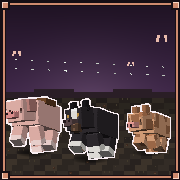
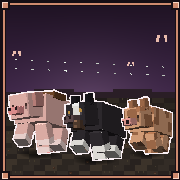
v1.0.2: loggan tillbaka till den första uppställningen, och en spärr mot ramen
Pelle valde den första loggan — tre stora grisar som står tätt. Den
gick dock in i ramen: Blossoms vänsterkant låg på x=6 med ramen på
0-15, och grisen såg avklippt ut.

make_logo.py räknar nu efter i stället för att jag ska titta. Varje
gris bredd härleds ur samma tabell som blit() använder, och går någon
in i ramen stannar bygget med siffran utskriven. Spärren är provad mot
den gamla placeringen och faller på den.

Blossom är den BREDASTE spriten (178 px mot Soots 176 och Nillas 140)
trots att hon inte är den högsta — en x-andel som fungerar för de andra
räcker inte för henne. Soot och Nilla flyttades med åt höger så att
överlappen blev som i originalet.

1.0.1 hoppades över: en avbruten körning hann höja manifestet men
ingenting skickades under det numret.

Changed region(s): [[0.0278, 0.5, 0.9722, 0.9167]]

diff --git a/tools/make_logo.py b/tools/make_logo.py
@@ -42,14 +42,20 @@ NYCKEL = (255, 0, 255, 255)
 # HÖJDERNA ÄR RÄKNADE MOT RAMEN: fotlinjen ligger på 0,86 och ramen på 0,97, så
 # klövarna hamnar innanför. En logga med avklippta fötter ser trasig ut.
 # GRISAR ÄR BREDARE ÄN HUNDAR vid samma höjd, så siffrorna är lägre än
-# hundloggans. Först provades 178-190 px: klövarna hamnade innanför ramen, men
-# grisarna gick in i VARANDRA — Blossoms bakdel låg över Soots huvud, och tre
-# figurer som överlappar läses som en klump, precis det tre stora djur ska
-# undvika. Bredden, inte höjden, är gränsen för en gris.
+# hundloggans 218-232 px.
+#
+# DE TRE FÅR RÖRA VID VARANDRA, och det är avsiktligt. En omgång med mindre och
+# glesare grisar (156/168/136 px) provades för att ingen skulle överlappa — den
+# blev luftigare men svagare, och Pelle valde den här. Tre stora djur som står
+# tätt läser som en flock; tre små med luft emellan läser som ett provkarta.
+# Ändra inte ner dem igen utan att fråga.
+# Blossom flyttades in från 0,195 (då gick hon in i ramen), och Soot och Nilla
+# följde med åt höger så att ÖVERLAPPEN blev som i originalet — flyttas bara
+# Blossom hamnar hon ovanpå Soots huvud i stället.
 UPPSTALLNING = [
-    ("blossom", 0.180, 0.845, 156, ("sadel",)),
-    ("soot", 0.500, 0.880, 168, ("tryffel",)),
-    ("nilla", 0.822, 0.845, 136, ()),
+    ("blossom", 0.218, 0.850, 178, ("sadel",)),
+    ("soot", 0.525, 0.885, 190, ("tryffel",)),
+    ("nilla", 0.815, 0.850, 158, ()),
 ]
 
 
@@ -116,6 +122,30 @@ def blit(dst, src, cx, cy, out_h):
                 dst[py][px] = p
 
 
+# RAMEN ÄR EN GRÄNS, inte en dekoration. Blossoms vänsterkant hamnade tio pixlar
+# INNE i ramen och grisen såg avklippt ut — och det syntes inte förrän Pelle
+# tittade på den färdiga bilden. Blossom är den BREDASTE spriten (178 px mot
+# Soots 176 och Nillas 140) trots att hon inte är den högsta, så en x-andel som
+# fungerar för de andra räcker inte för henne. Bredden räknas fram ur samma
+# tabell som blit() använder, så måttet kan inte glida isär från bilden.
+RAM_INRE = 16                              # ramen upptar 0..15
+KONTUR = 4                                 # den vita konturen ritas 4 px utanför
+
+
+def kontrollera(rasid, sx, sy, out_w, hojd):
+    v, h = sx - out_w // 2 - KONTUR, sx - out_w // 2 + out_w + KONTUR
+    o, u = sy - hojd - KONTUR, sy + KONTUR
+    fel = []
+    if v < RAM_INRE: fel.append(f"vänsterkant {v} < {RAM_INRE}")
+    if h > P - RAM_INRE: fel.append(f"högerkant {h} > {P - RAM_INRE}")
+    if o < RAM_INRE: fel.append(f"överkant {o} < {RAM_INRE}")
+    if u > P - RAM_INRE: fel.append(f"underkant {u} > {P - RAM_INRE}")
+    if fel:
+        raise SystemExit(f"❌ {rasid} går in i ramen: {', '.join(fel)}\n"
+                         f"   (bredd {out_w} px vid höjd {hojd}) — justera "
+                         f"x-andelen eller höjden i UPPSTALLNING")
+
+
 for rasid, fx, fy, hojd, visa in UPPSTALLNING:
     geoid, tex = next((g, t) for r, g, t in rp.rasklient() if r == rasid)
     src = rp.rita(geoid, tex, 300, 300, yaw=26, pitch=10, visa=visa, bakgrund=NYCKEL)
@@ -127,6 +157,7 @@ for rasid, fx, fy, hojd, visa in UPPSTALLNING:
     kol = [x for x in range(300) if any(nyckl[y][x] != TOM for y in rader)]
     nyckl = [rad[kol[0]:kol[-1] + 1] for rad in nyckl[rader[0]:rader[-1] + 1]]
     sx, sy = int(P * fx), int(P * fy)
+    kontrollera(rasid, sx, sy, int(len(nyckl[0]) / (len(nyckl) / hojd)), hojd)
     # ELLIPS UNDER GRISEN: en mjuk skugga grundar djuret och skiljer det från
     # marken bättre än en rak stapel.
     for y in range(sy - hojd // 12, sy + hojd // 12):

diff --git a/CHANGELOG.md b/CHANGELOG.md
@@ -1,5 +1,45 @@
 # Ändringar
 
+## 1.0.2 — 2026-08-23
+
+*(1.0.1 finns inte. En avbruten körning hann höja manifestet innan den stoppades,
+och leveransloggboken visar att ingenting någonsin skickades under det numret.
+Att återanvända det hade varit värre: två olika innehåll under samma version är
+precis vad loggboken finns för att hindra.)*
+
+
+Loggan tillbaka till den första uppställningen: tre stora grisar som står tätt,
+i stället för den glesare omgången med mindre djur. Pelle valde den första.
+
+**Och den första gick in i ramen.** Blossoms vänsterkant låg på x=6 med ramen på
+0–15, alltså tio pixlar in, och grisen såg avklippt ut. Det syntes inte förrän
+någon tittade på den färdiga bilden — så `make_logo.py` har nu en spärr som
+RÄKNAR: varje gris bredd härleds ur samma tabell som blit() använder, och går
+någon in i ramen stannar bygget med siffran utskriven. Spärren är provad mot
+den gamla placeringen och faller på den.
+
+Orsaken var värd att skriva ner: Blossom är den BREDASTE spriten (178 px mot
+Soots 176 och Nillas 140) trots att hon inte är den högsta, så en x-andel som
+fungerar för de andra räcker inte för henne. Soot och Nilla flyttades med åt
+höger så att överlappen blev som i originalet — flyttas bara Blossom hamnar hon
+ovanpå Soots huvud i stället.
+
+Ingen kodändring i paketet, men paketikonen HÄRLEDS ur loggan och ligger i båda
+paketen, så paketens innehåll ändrades — och då måste versionen upp.
+Leveransloggboken vägrar annars skicka v1.0.0 en gång till med annat innehåll,
+vilket är precis vad den är till för.
+
+## 1.0.1 — 2026-08-23
+
+Loggan tillbaka till den första uppställningen: tre stora grisar som står tätt,
+i stället för den glesare omgången med mindre djur. Pelle valde den första.
+
+Ingen kodändring, men paketikonen HÄRLEDS ur loggan och ligger i båda paketen,
+så paketens innehåll ändrades — och då måste versionen upp. Leveransloggboken
+vägrar annars skicka v1.0.0 en gång till med annat innehåll, vilket är precis
+vad den är till för: två filer med samma pack-uuid och samma version men olika
+innehåll får Minecraft att vägra ladda den ena.
+
 ## 1.0.0 — 2026-08-23
 
 Första riktiga versionen. Logga, paketikon, butiksbilder, sajt och leveranskedja

diff --git a/publish/release-notes.md b/publish/release-notes.md
@@ -1,6 +1,6 @@
 # Release notes
 
-## 1.0.0
+## 1.0.2
 
 Five hand-made pigs that smell ore through solid rock, root up truffles and
 carry you.
